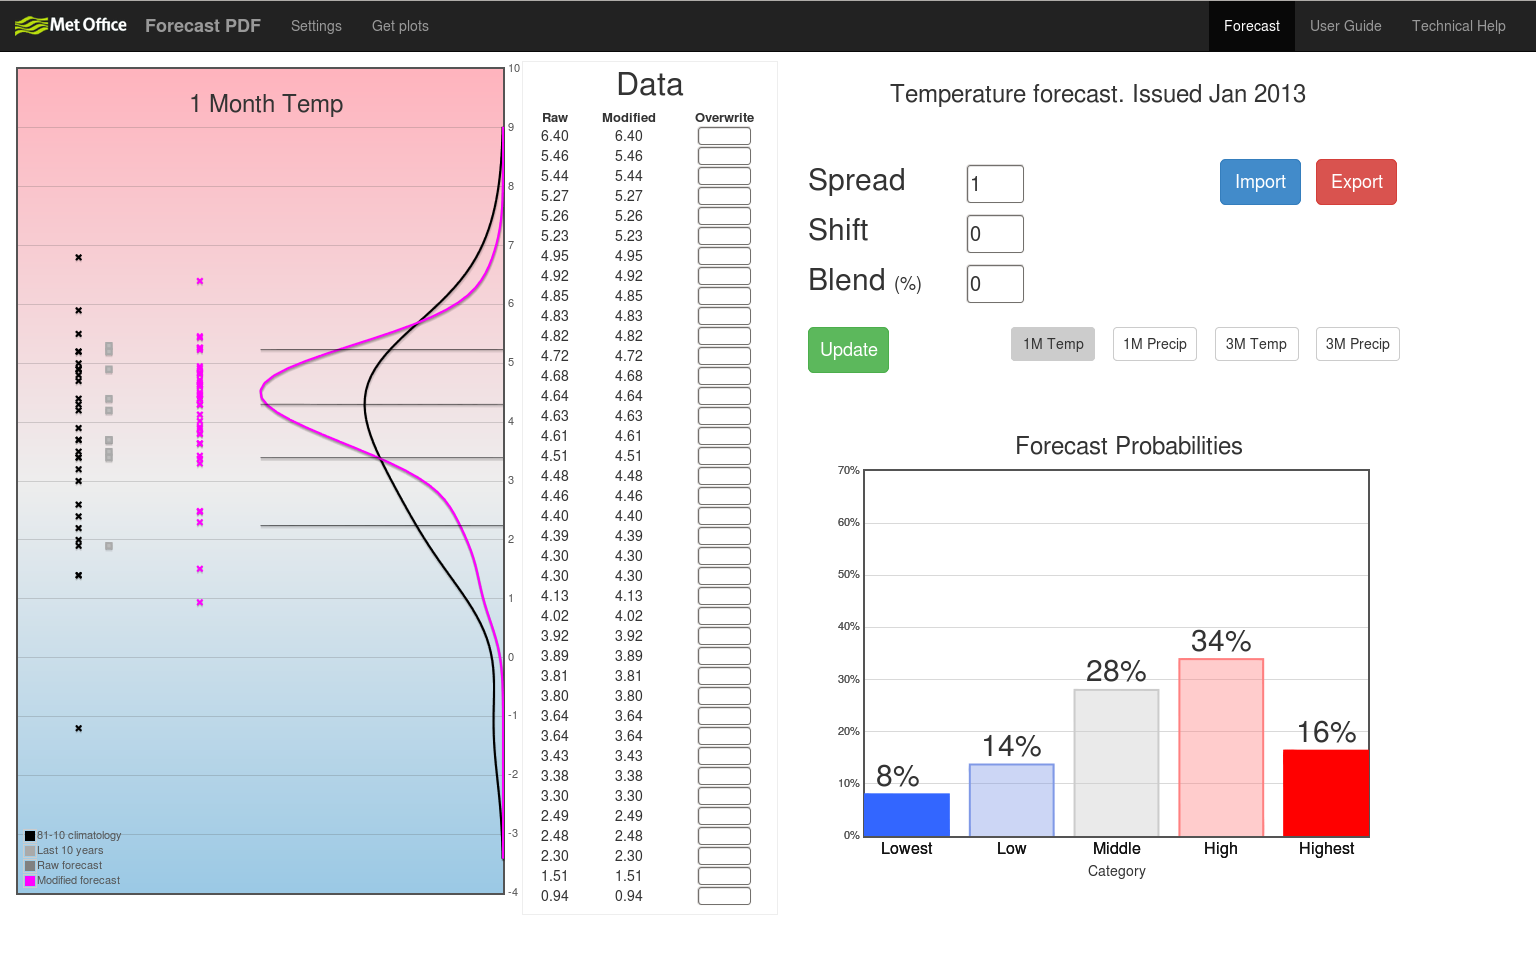
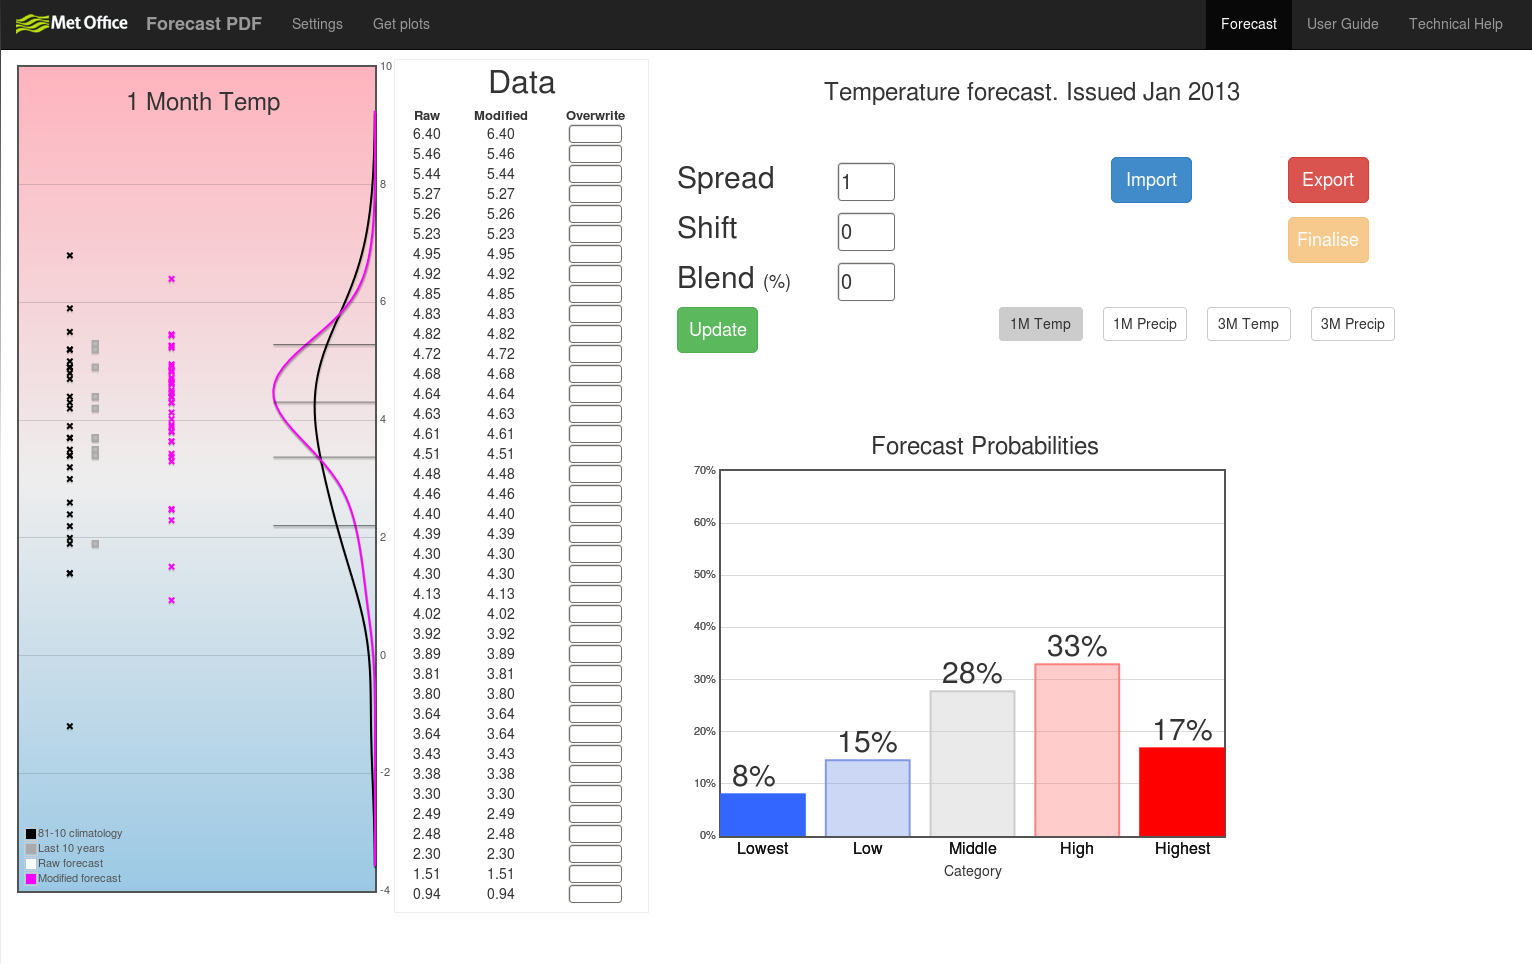
Updated help page

diff --git a/user_guide.html b/user_guide.html
@@ -61,6 +61,10 @@
 	      <li><a href="#modify">Modifing data</a></li>
 	      <li><a href="#settings">Settings</a></li>
 	      <li><a href="#export">Exporting</a></li>
+	      <ul>
+		<li><a href="#export_data">Data</a></li>
+		<li><a href="#export_plots">Plots</a></li>
+	      </ul>
 	    </ul>
         </div>
 
@@ -161,8 +165,15 @@
 	    </ul>
 	    <p><i>Note, all but the climatology period and the export directory can be changed and updated after loading in the data, use </i><button type="button" class="btn btn-success btn-xs">Update</button><i> to implement the changes.</i></p><br>
 
-	    <h1 id="export">Exporting</h1><br>
-	    <p>Once you are happy with a forecast, simply press <button type="button" class="btn btn-danger btn-xs">Export</button> and the data for that variable and period (given by the current <a href="#data_tabs">data tab</a>) will be saved to file. The file location is then displayed on screen.</p><br>
+	    <h1 id="export">Exporting</h1>
+	    <h3 id="export_data">Data</h3>
+	    <p>Once you are happy with a forecast, simply press <button type="button" class="btn btn-danger btn-xs">Export</button> and the data for that variable and period (given by the current <a href="#data_tabs">data tab</a>) will be saved to file. The location of the saved file is then displayed on screen.</p>
+	    <p>Once all the data (for the four tabs) has been exported, the <button type="button" class="btn btn-warning btn-xs">Finalise</button> button will be come active.
+	    This is the final step to complete the exportation. Pressing finalise builds the additional files from EA and CEH and removes un-needed temporary files.</p>
+	    <p><i>Note, data can be changed and exported as many times as required <b>BEFORE</b> <button type="button" class="btn btn-warning btn-xs">Finalise</button> is pressed. If addtional changes need to be made after finalisation, you must start from the beginning and re-import the data (a record of the changes you made is saved in a file called mmmyyyy_modifications_info.txt, found in the info folder of the exported directory).</i></p><br>
+	    
+
+	    <h3 id="export_plots">Plots</h3>
 	    <p>The plots are also available to download. Use the 'Get plots' link at the top of the page...</p>
 	    <img src="page_images/get_plots.png" style="{width:25em;border:1px solid #eee}"><br><br>
 	    <p>There are 2 options.</p>

diff --git a/forecast_tool.html b/forecast_tool.html
@@ -88,10 +88,10 @@
 	<div class="row" style="margin-top:7em;">
 
 	    <!-- modifiers -->
-	    <div class="col-sm-6 col-md-6">
+	    <div class="col-sm-6 col-md-6" style="padding-left:2em;">
 
 		<div class="row">
-		  <div class="col-sm-6 col-md-6">
+		  <div class="col-sm-5 col-md-5">
 		    <font class="font_lg" size="5">Spread</font>
 		  </div>
 		  <div class="col-sm-6 col-md-6">
@@ -100,7 +100,7 @@
 		</div>
 
 		<div class="row">
-		  <div class="col-sm-6 col-md-6">
+		  <div class="col-sm-5 col-md-5">
 		    <font class="font_lg" size="5">Shift</font>
 		  </div>
 		  <div class="col-sm-6 col-md-6">
@@ -109,7 +109,7 @@
 		</div>
 
 		<div class="row">
-		  <div class="col-sm-6 col-md-6">
+		  <div class="col-sm-5 col-md-5">
 		    <font class="font_lg" size="5">Blend&nbsp;</font><font size="4">(%)</font>
 		  </div>
 		  <div class="col-sm-6 col-md-6">
@@ -139,7 +139,7 @@
 
 	<!-- Update -->
 	<div class="row">
-	    <div class="col-sm-5 col-md-5">
+	    <div class="col-sm-5 col-md-5"  style="padding-left:2em;">
 	      <button id='update' type="button" class="btn btn-success btn-lg">Update</button>
 	    </div>
 	    
